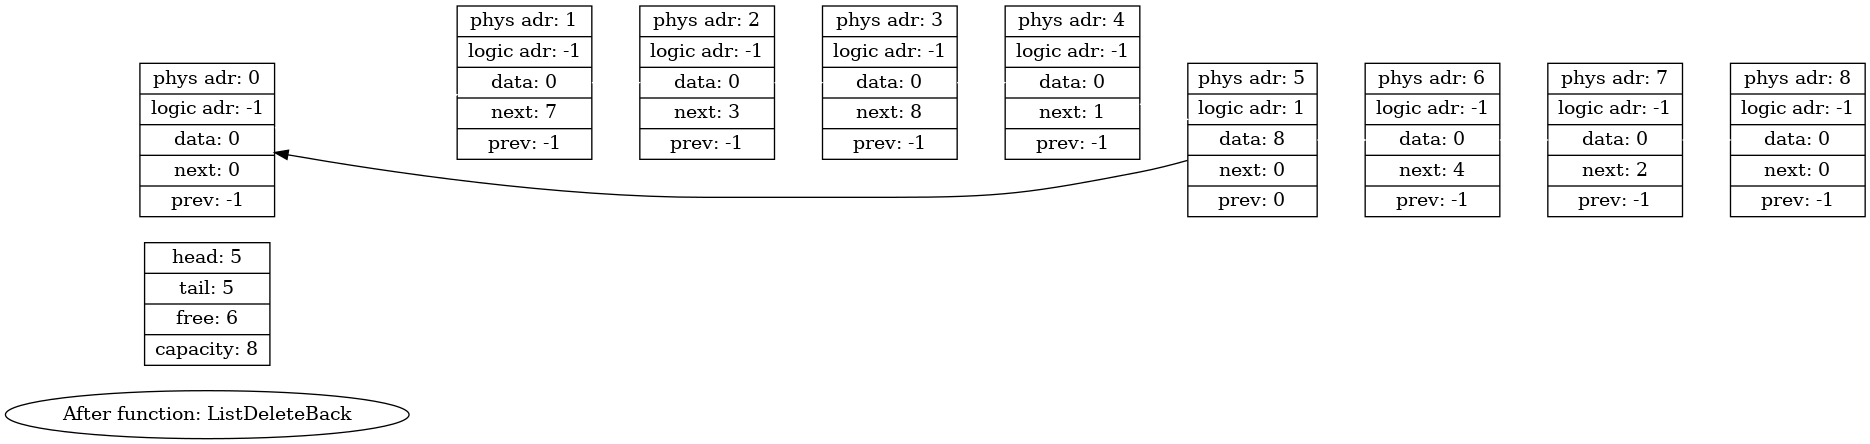
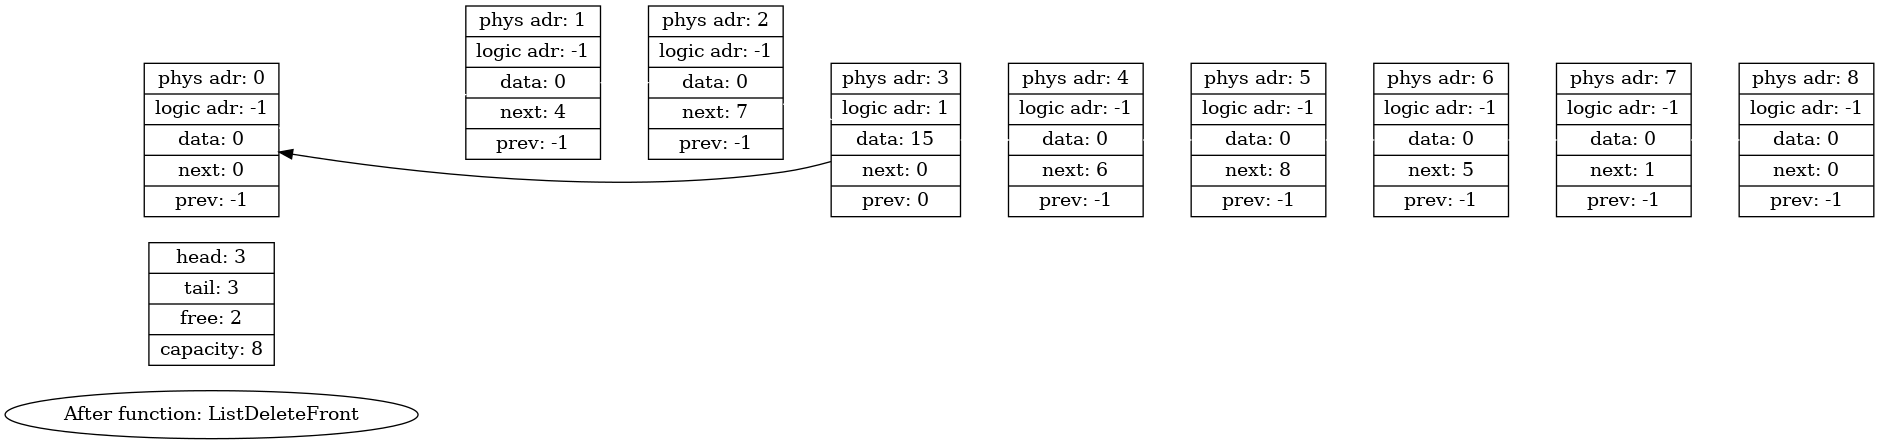
Made DeleteFront func

diff --git a/src/ListFunc.cpp b/src/ListFunc.cpp
@@ -302,16 +302,10 @@ int ListDeleteBack(List* list)
 {
     LIST_CHECK(__FUNCTION__);
 
-    if (list->head == list->free)
-    {
-        printf("In Function ListDeleteBack: list is empty\n");
-        return INSERT_ERROR;
-    }
-
     list->elem[list->tail].data = 0; //1
 
     //First element
-    if(list->elem[list->tail].prev == 0)
+    if(list->head == list->tail)
     {
         list->elem[list->tail].next = list->free;
         list->elem[list->tail].prev = -1;
@@ -322,6 +316,7 @@ int ListDeleteBack(List* list)
     else
     {
         list->elem[list->tail].next = list->free; //2
+
         list->elem[list->elem[list->tail].prev].next = 0; //3
 
         list->free = list->tail; //4
@@ -329,6 +324,43 @@ int ListDeleteBack(List* list)
         list->tail = list->elem[list->tail].prev; //5
 
         list->elem[list->free].prev = -1; //6
+    }
+
+#ifdef LIST_DUMP
+    ListDump(list, __FUNCTION__);
+#endif
+
+    return list->tail;
+}
+
+int ListDeleteFront(List* list)
+{
+    LIST_CHECK(__FUNCTION__);
+
+    list->elem[list->head].data = 0; //1
+
+    int old_free = list->free;
+
+    //First element
+    if(list->head == list->tail) //(list->head == list->tail)
+    {
+        list->elem[list->head].next = list->free;
+        list->elem[list->head].prev = -1;
+
+        list->free = list->head;
+    }
+    //Other element
+    else
+    {
+        list->elem[list->head].prev = -1; //2
+
+        list->elem[list->elem[list->head].next].prev = 0; //3
+
+        list->free = list->head; //4
+
+        list->head = list->elem[list->head].next; //5
+
+        list->elem[list->free].next = old_free; //6
     }
 
 #ifdef LIST_DUMP

diff --git a/src/ListErrorCheck.cpp b/src/ListErrorCheck.cpp
@@ -23,8 +23,9 @@ int ListErrorCheck(List* list, const char* func)
             printf("In Function %s: elem is nullptr\n", func);
             return ELEM_NULL_PTR;
         }
+
         if(strcmp(func, "ListInsertBack") == 0 || strcmp(func, "ListInsertFront") == 0 ||
-           strcmp(func, "ListInsertBefore") == 0)
+           strcmp(func, "ListInsertBefore") == 0 || strcmp(func, "ListInsertAfter") == 0)
         {
             if (list->free > list->capacity)
             {
@@ -39,6 +40,18 @@ int ListErrorCheck(List* list, const char* func)
                 return INSERT_ERROR;
             }
         }
+
+        if(strcmp(func, "ListDeleteBack") == 0 || strcmp(func, "ListDeleteFront") == 0 ||
+           strcmp(func, "ListDelete") == 0)
+        {
+            if (list->head == list->free)
+            {
+                printf("In Function %s: list is empty\n", func);
+                ListDump(list, __FUNCTION__);
+                return DELETE_ERROR;
+            }
+        }
+
     }
 
     return 0;

diff --git a/include/List.h b/include/List.h
@@ -25,7 +25,8 @@ enum ListErrors
     LIST_DOUBLE_CTED = 4,
     LIST_IS_OVERFL   = 5,
     INSERT_ERROR     = 6,
-    REALLOC_ERROR    = 7,
+    DELETE_ERROR     = 7,
+    REALLOC_ERROR    = 8,
 };
 
 typedef struct ListElem
@@ -86,6 +87,8 @@ int ListInsertBefore(List* list, int position, data_t value);
 int ListInsertAfter(List* list, int position, data_t value);
 
 int ListDeleteBack(List* list);
+
+int ListDeleteFront(List* list);
 
 //---------ListErrorCheckFunctions---------
 

diff --git a/src/ListMain.cpp b/src/ListMain.cpp
@@ -15,13 +15,7 @@ int main()
 
     ListDeleteBack(&list);
     ListInsertBack(&list, 15);
-    ListDeleteBack(&list);
-    ListDeleteBack(&list);
-    ListDeleteBack(&list);
-    ListDeleteBack(&list);
-    ListDeleteBack(&list);
-    ListDeleteBack(&list);
-    ListDeleteBack(&list);
+    ListDeleteFront(&list);
 //
 
     ListDtor(&list);
